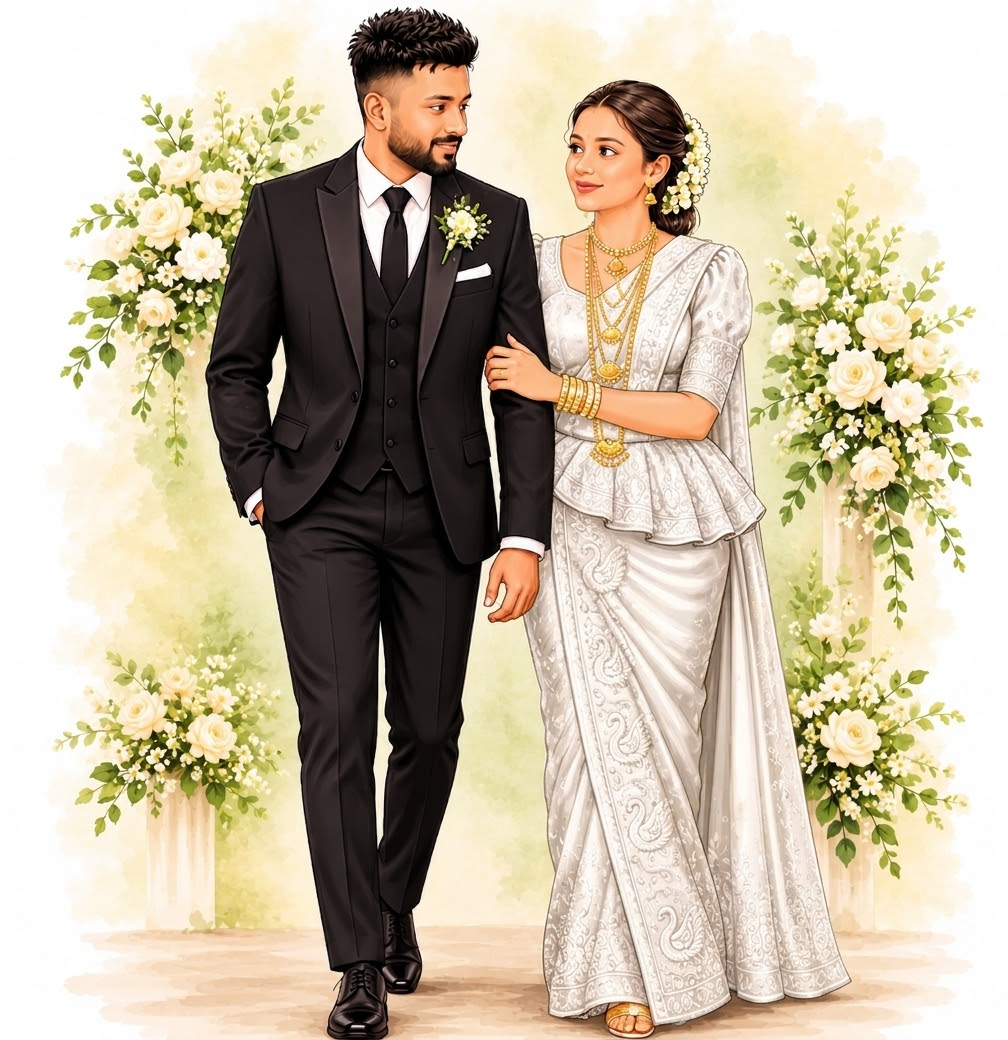
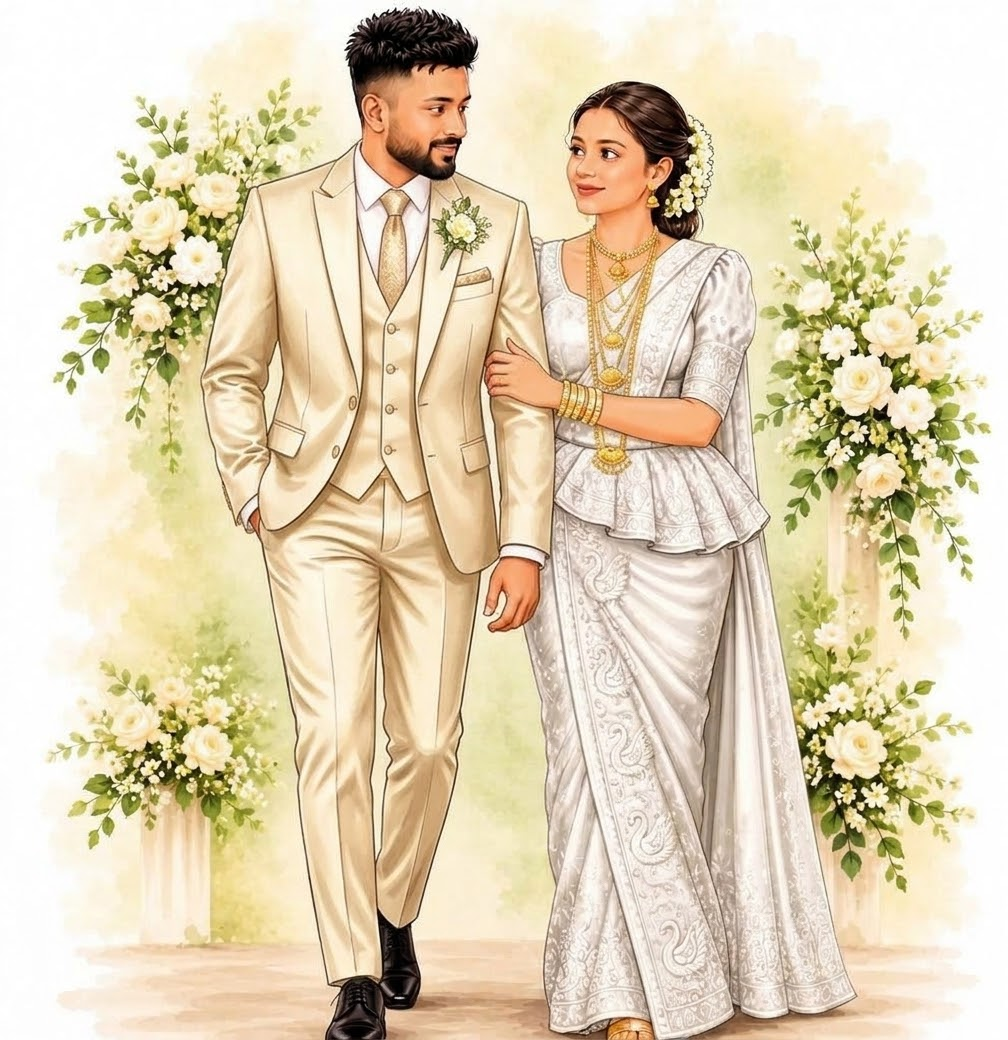
ddd

diff --git a/src/index.css b/src/index.css
@@ -243,6 +243,7 @@ body {
 .rsvp-divider > span { background:rgba(169,154,115,.65); }
 .rsvp-divider svg { color:#ad9156; }
 .rsvp-description { margin:12px 0 0; color:rgba(48,75,57,.82); font-family:'Cormorant Garamond',Georgia,serif; font-size:20px; }
+.rsvp-deadline { margin:8px 0 0; color:#8a7a50; font-family:'Cormorant Garamond',Georgia,serif; font-size:17px; }
 .rsvp-open-button,.rsvp-send-button { display:inline-flex; min-height:44px; align-items:center; justify-content:center; gap:9px; margin-top:22px; padding:11px 22px; border:1px solid rgba(169,154,115,.75); border-radius:999px; background:#344d3c; color:#fff9f0; font-family:Cinzel,'Cormorant Garamond',serif; font-size:10px; letter-spacing:.14em; text-transform:uppercase; cursor:pointer; transition:background .18s ease,transform .18s ease; }
 .rsvp-open-button:hover,.rsvp-send-button:hover { transform:translateY(-1px); background:#263e32; }
 .rsvp-open-button svg { width:16px; height:16px; }
@@ -252,11 +253,16 @@ body {
 .rsvp-choice { display:inline-flex; min-height:42px; align-items:center; justify-content:center; gap:8px; padding:9px 16px; border:1px solid rgba(169,154,115,.62); border-radius:999px; background:#fffdf8; color:#344d3c; font-family:Cinzel,'Cormorant Garamond',serif; font-size:10px; letter-spacing:.09em; text-transform:uppercase; cursor:pointer; }
 .rsvp-choice svg { width:15px; height:15px; color:#a88749; }
 .rsvp-choice.is-selected { border-color:#344d3c; background:#e8eadf; box-shadow:inset 0 0 0 1px rgba(52,77,60,.16); }
-.rsvp-fields { display:grid; grid-template-columns:repeat(2,minmax(0,1fr)); gap:12px; margin-top:18px; text-align:left; }
+.rsvp-fields { display:grid; grid-template-columns:minmax(0,1fr); gap:14px; width:min(100%,530px); margin:18px auto 0; text-align:left; }
 .rsvp-fields label { display:grid; gap:6px; color:#82734c; font-family:Cinzel,'Cormorant Garamond',serif; font-size:9px; letter-spacing:.13em; text-transform:uppercase; }
-.rsvp-fields input { width:100%; min-height:43px; padding:9px 12px; border:1px solid rgba(169,154,115,.53); border-radius:3px; outline:none; background:#fffdf8; color:#304b39; font-family:'Cormorant Garamond',Georgia,serif; font-size:17px; letter-spacing:normal; text-transform:none; }
+.rsvp-fields input { display:block; box-sizing:border-box; width:100%; min-height:52px; padding:9px 12px; border:1px solid rgba(169,154,115,.53); border-radius:3px; outline:none; background:#fffdf8; color:#304b39; font-family:'Cormorant Garamond',Georgia,serif; font-size:17px; letter-spacing:normal; text-transform:none; }
 .rsvp-fields input:focus { border-color:#a88749; box-shadow:0 0 0 2px rgba(169,154,115,.17); }
-.rsvp-send-button { grid-column:1/-1; justify-self:center; margin-top:2px; }
+.rsvp-fields textarea { display:block; box-sizing:border-box; width:100%; min-height:88px; padding:10px 12px; border:1px solid rgba(169,154,115,.53); border-radius:3px; outline:none; resize:vertical; background:rgba(255,253,248,.72); color:#304b39; font-family:'Cormorant Garamond',Georgia,serif; font-size:17px; letter-spacing:normal; text-transform:none; }
+.rsvp-fields textarea:focus { border-color:#a88749; box-shadow:0 0 0 2px rgba(169,154,115,.17); }
+.rsvp-wish-field { grid-column:1; }
+.rsvp-send-button { background:#006a4e !important; border-color:#00fa9a !important; color:#fff9f0 !important; }
+.rsvp-send-button:hover { background:#00a878 !important; border-color:#00fa9a !important; }
+.rsvp-send-button { grid-column:1; justify-self:center; margin-top:2px; }
 .rsvp-notice { grid-column:1/-1; margin:0; color:#596c55; font-family:'Cormorant Garamond',Georgia,serif; font-size:16px; text-align:center; }
 @media(max-width:640px) {
   .countdown-section { min-height:350px; padding:42px 24px 50px; }
@@ -301,7 +307,7 @@ body {
 .hero-join { display:flex; align-items:center; justify-content:center; gap:14px; width:min(100%,430px); margin:3px 0 -5px; color:#344d3c; font-family:'Cormorant Garamond',Georgia,serif; font-size:30px; line-height:1; }
 .hero-join i { flex:1; height:1px; background:linear-gradient(90deg,transparent,#b69a62); }
 .hero-join i:last-child { transform:scaleX(-1); }
-.hero-groom-name { color:#344d3c; font-family:'Pinyon Script',cursive; font-size:clamp(58px,6.4vw,104px); font-weight:400; line-height:1.05; }
+.hero-groom-name { color:#344d3c; font-family:'Cormorant Garamond',Georgia,serif; font-size:clamp(58px,6.4vw,104px); font-weight:500; line-height:1.05; text-transform:uppercase; letter-spacing:.12em; }
 .hero-details { display:grid; grid-template-columns:repeat(3,minmax(0,1fr)); margin:clamp(26px,3vw,44px) auto 0; border-top:1px solid rgba(182,154,98,.38); border-bottom:1px solid rgba(182,154,98,.38); }
 .hero-detail { display:flex; min-width:0; flex-direction:column; align-items:center; gap:10px; padding:18px 12px; }
 .hero-detail + .hero-detail { border-left:1px solid rgba(182,154,98,.28); }
@@ -412,8 +418,10 @@ body {
 
 /* Printed stationery cover */
 .invitation-cover {
-  --forest: #214f50;
-  --sage: #83b99a;
+  --bottle-green: #006a4e;
+  --medium-spring-green: #00fa9a;
+  --forest: var(--bottle-green);
+  --sage: var(--medium-spring-green);
   --gold: #a99a73;
   background-color:#7f9781;
   background-image:url('/background1.jpeg');
@@ -423,6 +431,24 @@ body {
   background-blend-mode:normal;
   isolation: isolate;
 }
+
+/* Use the requested greens throughout the invitation sections. */
+:root {
+  --bottle-green: #006a4e;
+  --medium-spring-green: #00fa9a;
+}
+.countdown-section { background:radial-gradient(ellipse at 18% 25%,rgba(0,250,154,.22),transparent 36%),radial-gradient(ellipse at 84% 78%,rgba(0,45,33,.72),transparent 43%),linear-gradient(112deg,#006a4e,#00533d 54%,#003d2e); }
+.countdown-unit { background:linear-gradient(145deg,rgba(0,250,154,.22),rgba(0,106,78,.38) 55%,rgba(0,250,154,.16)); }
+.wedding-details-section { background:radial-gradient(ellipse at 18% 30%,rgba(0,250,154,.2),transparent 42%),linear-gradient(120deg,#006a4e,#004a37 68%,#003d2e); }
+.wedding-details-section .details-card { background:linear-gradient(145deg,rgba(0,106,78,.88),rgba(0,83,61,.94)); }
+.wedding-details-section .details-card dd { color:#f1ead8; }
+.venue-section { background:radial-gradient(ellipse at 18% 25%,rgba(0,250,154,.2),transparent 38%),linear-gradient(120deg,#006a4e,#004a37 68%,#003d2e); }
+.venue-card { background:linear-gradient(135deg,rgba(0,106,78,.88),rgba(0,67,50,.94)); }
+.closing-section { background:radial-gradient(ellipse at 50% 38%,rgba(0,250,154,.24),transparent 68%),linear-gradient(110deg,#006a4e,#004a37 55%,#003d2e); }
+.hero-section { background-color:#006a4e; }
+.hero-shell { background-image:radial-gradient(ellipse at 24% 42%,rgba(0,250,154,.18),transparent 54%),linear-gradient(115deg,#006a4e,#004a37 72%,#003d2e); }
+.hero-detail { background:linear-gradient(145deg,rgba(0,250,154,.24),rgba(0,106,78,.46) 58%,rgba(0,83,61,.42)); }
+.invitation-cover { --forest:#006a4e; --sage:#00fa9a; }
 .invitation-cover::before { content:""; position:fixed; z-index:0; inset:0; pointer-events:none; background:url('/background2.jpeg') center / 100% 100% no-repeat; mix-blend-mode:multiply; opacity:.54; animation:botanical-bloom 1.6s ease-out both; }
 .cover-stage {
   position: relative;
@@ -459,8 +485,8 @@ body {
 .mini-ornament svg { width:34px; fill:none; stroke:currentColor; stroke-width:1.1; }
 .partner-block { margin:0 auto; }
 .parent-names { margin:0; color:var(--forest); font-family:'Cormorant Garamond',Georgia,serif; font-size:clamp(18px,2.8vw,28px); font-weight:500; line-height:1.3; }
-.request-line { max-width:530px; margin:8px auto 0; color:#557a6d; font-family:'Cormorant Garamond',Georgia,serif; font-size:clamp(16px,2.5vw,23px); font-style:italic; line-height:1.2; text-wrap:balance; }
-.partner-name { display:flex; flex-direction:column; align-items:center; margin:5px auto 0; color:#174849; font-family:'Pinyon Script',cursive; font-weight:400; line-height:.9; text-wrap:nowrap; }
+.request-line { max-width:530px; margin:8px auto 0; color:var(--bottle-green); font-family:'Cormorant Garamond',Georgia,serif; font-size:clamp(16px,2.5vw,23px); font-style:italic; line-height:1.2; text-wrap:balance; }
+.partner-name { display:flex; flex-direction:column; align-items:center; margin:5px auto 0; color:var(--bottle-green); font-family:'Cormorant Garamond',Georgia,serif; font-weight:500; line-height:.9; text-wrap:nowrap; text-transform:uppercase; letter-spacing:.1em; font-style:normal; }
 .partner-name span + span { margin-top:-.03em; }
 .bride-name { max-width:100%; font-size:clamp(49px,7.1vw,88px); }
 .groom-name { max-width:100%; font-size:clamp(45px,6.1vw,76px); }
@@ -475,17 +501,17 @@ body {
 .open-seal { position:relative; display:flex; width:54px; height:54px; align-items:center; justify-content:center; border:2px solid var(--gold); border-radius:50%; background:var(--forest); color:#e3eee2; box-shadow:0 8px 24px -12px rgba(33,79,80,.5); outline:none; transition:transform .15s; }
 .open-seal:hover { transform:scale(1.04); }
 .open-seal:focus-visible { outline:2px solid var(--gold); outline-offset:4px; }
-.seal-inner,.seal-pulse { position:absolute; inset:5px; border:1px solid rgba(131,185,154,.7); border-radius:50%; }
+.seal-inner,.seal-pulse { position:absolute; inset:5px; border:1px solid color-mix(in srgb,var(--medium-spring-green),transparent 30%); border-radius:50%; }
 .seal-pulse { inset:0; border-color:var(--gold); }
-.seal-monogram { position:relative; margin-top:-3px; font-family:'Pinyon Script',cursive; font-size:22px; }
+.seal-monogram { position:relative; margin-top:-3px; font-family:'Cormorant Garamond',Georgia,serif; font-size:22px; font-style:normal; font-weight:500; }
 .open-caption { margin:8px 0 0; color:#827752; font-family:Cinzel,'Cormorant Garamond',serif; font-size:9px; letter-spacing:.25em; text-transform:uppercase; }
 .name-rain-overlay { position:fixed; z-index:80; inset:0; display:grid; place-items:center; overflow:hidden; background:radial-gradient(ellipse at center,rgba(35,75,66,.94),rgba(22,48,42,.97)); color:#f7f1df; }
 .rain-letter-field { position:absolute; inset:0; overflow:hidden; }
 .rain-letter { position:absolute; top:0; color:#d9c99d; font-family:'Cormorant Garamond',Georgia,serif; font-size:clamp(14px,2vw,24px); font-weight:500; text-shadow:0 0 12px rgba(209,193,145,.28); }
 .formed-names { position:relative; z-index:1; display:flex; flex-direction:column; align-items:center; padding:24px; text-align:center; }
 .formed-heart { width:clamp(70px,12vw,118px); height:auto; margin-bottom:12px; color:#c4a66e; filter:drop-shadow(0 0 18px rgba(196,166,110,.2)); }
-.formed-names p { margin:0; color:#f8f1df; font-family:'Pinyon Script',cursive; font-size:clamp(48px,9vw,96px); line-height:1; text-shadow:0 5px 28px rgba(0,0,0,.18); }
-.formed-names p span { padding:0 .16em; color:#d0b477; font-family:'Cormorant Garamond',Georgia,serif; font-size:.38em; font-style:italic; }
+.formed-names p { margin:0; color:#f8f1df; font-family:'Cormorant Garamond',Georgia,serif; font-size:clamp(48px,9vw,96px); font-weight:500; line-height:1; letter-spacing:.1em; text-transform:uppercase; text-shadow:0 5px 28px rgba(0,0,0,.18); }
+.formed-names p span { padding:0 .16em; color:#d0b477; font-family:'Cormorant Garamond',Georgia,serif; font-size:.38em; font-style:normal; }
 .reveal-lotus { animation:lotus-arrive .9s cubic-bezier(.2,.75,.25,1) both; }
 .reveal-heading { animation:soft-rise .62s .3s ease-out both; }
 .reveal-divider { animation:divider-arrive .65s .42s ease-out both; }
@@ -581,6 +607,36 @@ body {
 .hero-cta { border-color:rgba(232,210,151,.84); background:linear-gradient(135deg,#e8d5a4,#c9a861); color:#3d422e; box-shadow:0 8px 25px rgba(207,177,105,.24); }
 .hero-cta:hover { background:#f0dfb1; box-shadow:0 11px 28px rgba(207,177,105,.32); }
 .hero-cta svg { color:#927843; }
+
+/* Final palette overrides: the invitation has later section rules, so place
+   these after them to ensure every green panel uses the requested shades. */
+.hero-section { background:#006a4e !important; }
+.hero-shell { background-image:radial-gradient(ellipse at 24% 42%,rgba(0,250,154,.24),transparent 54%),linear-gradient(115deg,#006a4e,#00513c 72%,#003d2e) !important; }
+.hero-detail { background:linear-gradient(145deg,rgba(0,250,154,.27),rgba(0,106,78,.62) 58%,rgba(0,77,57,.7)) !important; }
+.countdown-section { background:radial-gradient(ellipse at 18% 25%,rgba(0,250,154,.58),transparent 42%),radial-gradient(ellipse at 85% 82%,rgba(0,250,154,.2),transparent 40%),linear-gradient(112deg,#006a4e,#006a4e 58%,#004d39) !important; }
+.countdown-unit { background:linear-gradient(145deg,rgba(0,250,154,.46),rgba(0,106,78,.8) 55%,rgba(0,77,57,.86)) !important; }
+.wedding-details-section { background:#fff9f0 !important; color:#344d3c !important; }
+.wedding-details-section .details-card { background:rgba(255,252,246,.92) !important; }
+.venue-section { background:radial-gradient(ellipse at 20% 24%,rgba(0,250,154,.28),transparent 42%),linear-gradient(120deg,#006a4e,#006a4e 58%,#004d39) !important; }
+.venue-card { background:linear-gradient(135deg,rgba(0,250,154,.28),rgba(0,106,78,.92) 42%,rgba(0,77,57,.96)) !important; }
+.closing-section { background:linear-gradient(110deg,#006a4e,#00513c 55%,#003d2e) !important; }
+.wedding-details-section { color:#344d3c !important; }
+.wedding-details-section .details-heading h2,
+.wedding-details-section .details-date-label,
+.wedding-details-section .details-card dt { color:#8a7a50 !important; }
+.wedding-details-section .details-date,
+.wedding-details-section .details-card dd { color:#344d3c !important; }
+.closing-section { background:radial-gradient(ellipse at 50% 38%,rgba(0,250,154,.3),transparent 68%),linear-gradient(110deg,#006a4e,#00513c 55%,#003d2e) !important; color:#fff9f0 !important; }
+.closing-section .closing-title { color:#fff9f0 !important; }
+.closing-section .closing-message { color:rgba(255,249,240,.9) !important; }
+.closing-section .closing-signoff { color:#00fa9a !important; }
+.closing-section .closing-signature { color:#fff9f0 !important; }
+.closing-section .closing-eventline { color:rgba(255,249,240,.82) !important; }
+.closing-section .closing-lotus,
+.closing-section .closing-divider svg { color:#00fa9a !important; }
+.closing-section .closing-divider > span { background:rgba(0,250,154,.72) !important; }
+.name-rain-overlay { background:radial-gradient(ellipse at center,rgba(0,250,154,.2),transparent 68%),linear-gradient(135deg,#006a4e,#00513c 58%,#003d2e) !important; }
+.formed-heart { color:#00fa9a !important; filter:drop-shadow(0 0 18px rgba(0,250,154,.32)) !important; }
 @media(min-width:900px) {
   .hero-shell { grid-template-columns:minmax(0,1.04fr) minmax(0,.96fr); gap:clamp(8px,2vw,28px); padding-inline:clamp(24px,4.2vw,72px); }
   .hero-copy { padding:clamp(25px,3vw,48px) clamp(12px,1.7vw,28px); }

diff --git a/src/components/RsvpSection.tsx b/src/components/RsvpSection.tsx
@@ -8,7 +8,7 @@ type Attendance = 'attending' | 'declining';
 export function RsvpSection() {
   const [attendance, setAttendance] = useState<Attendance | null>('attending');
   const [name, setName] = useState('');
-  const [guestCount, setGuestCount] = useState('');
+  const [wish, setWish] = useState('');
   const [notice, setNotice] = useState('');
 
   const submitRsvp = (event: FormEvent<HTMLFormElement>) => {
@@ -20,8 +20,8 @@ export function RsvpSection() {
     }
 
     const response = attendance === 'attending'
-      ? `Hello! ${name} will attend the wedding. Guest count: ${guestCount}.`
-      : `Hello! ${name} will not be able to attend the wedding.`;
+      ? `Hello! ${name} will attend the wedding.\n\nMy wish for the couple: ${wish || 'Wishing you a lifetime of love and happiness.'}`
+      : `Hello! ${name} will not be able to attend the wedding.\n\nMy wish for the couple: ${wish || 'Wishing you a lifetime of love and happiness.'}`;
     window.open(`https://wa.me/${recipient}?text=${encodeURIComponent(response)}`, '_blank', 'noopener,noreferrer');
     setNotice('Your WhatsApp message is ready to send.');
   };
@@ -36,6 +36,7 @@ export function RsvpSection() {
         <h2 id="rsvp-title">Kindly reply</h2>
         <GoldDivider className="rsvp-divider" />
         <p className="rsvp-description">Let us know if you’ll be celebrating with us.</p>
+        <p className="rsvp-deadline">Please confirm your attendance on or before 30th November.</p>
         <div className="rsvp-form-area">
           <p className="rsvp-question">Will you be attending?</p>
           <div className="rsvp-choices">
@@ -52,12 +53,10 @@ export function RsvpSection() {
                 Your name
                 <input required autoComplete="name" value={name} onChange={(event) => setName(event.target.value)} placeholder="Enter your name" />
               </label>
-              {attendance === 'attending' && (
-                <label>
-                  Number of guests
-                  <input required type="number" min="1" max="20" value={guestCount} onChange={(event) => setGuestCount(event.target.value)} />
-                </label>
-              )}
+              <label className="rsvp-wish-field">
+                Make your wish
+                <textarea value={wish} onChange={(event) => setWish(event.target.value)} placeholder="Write a wish for the couple (optional)" rows={3} />
+              </label>
               <button type="submit" className="rsvp-send-button"><MessageCircleIcon aria-hidden="true" /> Continue to WhatsApp</button>
               {notice && <p className="rsvp-notice" role="status">{notice}</p>}
             </form>

diff --git a/src/data/wedding.ts b/src/data/wedding.ts
@@ -22,7 +22,7 @@ export const wedding: WeddingConfig = {
   event: {
     dateLabel: 'Saturday, December 12, 2026',
     shortDateLabel: 'December 12, 2026',
-    timeLabel: '8:00 AM – 3:00 PM',
+    timeLabel: '9:30 AM – 3:00 PM',
     poruwaTimeLabel: '10:45 AM',
     startISO: '2026-12-12T08:00:00+05:30',
     endISO: '2026-12-12T15:00:00+05:30',
@@ -34,7 +34,7 @@ export const wedding: WeddingConfig = {
     mapsQuery: 'Canterbury Golf Resort, Kahathuduwa, Sri Lanka'
   },
   rsvp: {
-    whatsappNumber: '+94764991398'
+    whatsappNumber: '+94711130676'
   },
   invitation: {
     coverOpening: 'Together with their beloved families',

diff --git a/src/components/CountdownSection.tsx b/src/components/CountdownSection.tsx
@@ -27,7 +27,7 @@ export function CountdownSection() {
         ) : (
           <>
             <h2 id="countdown-title" className="countdown-title">Counting down to our day</h2>
-            <p className="countdown-date">{wedding.event.shortDateLabel} · 8:00 AM Sri Lanka time</p>
+            <p className="countdown-date">{wedding.event.shortDateLabel} · 9:30 AM Sri Lanka time</p>
             <div role="timer" aria-live="off" className="countdown-units">
               {units.map((unit) => (
                 <div key={unit.label} className="countdown-unit">
